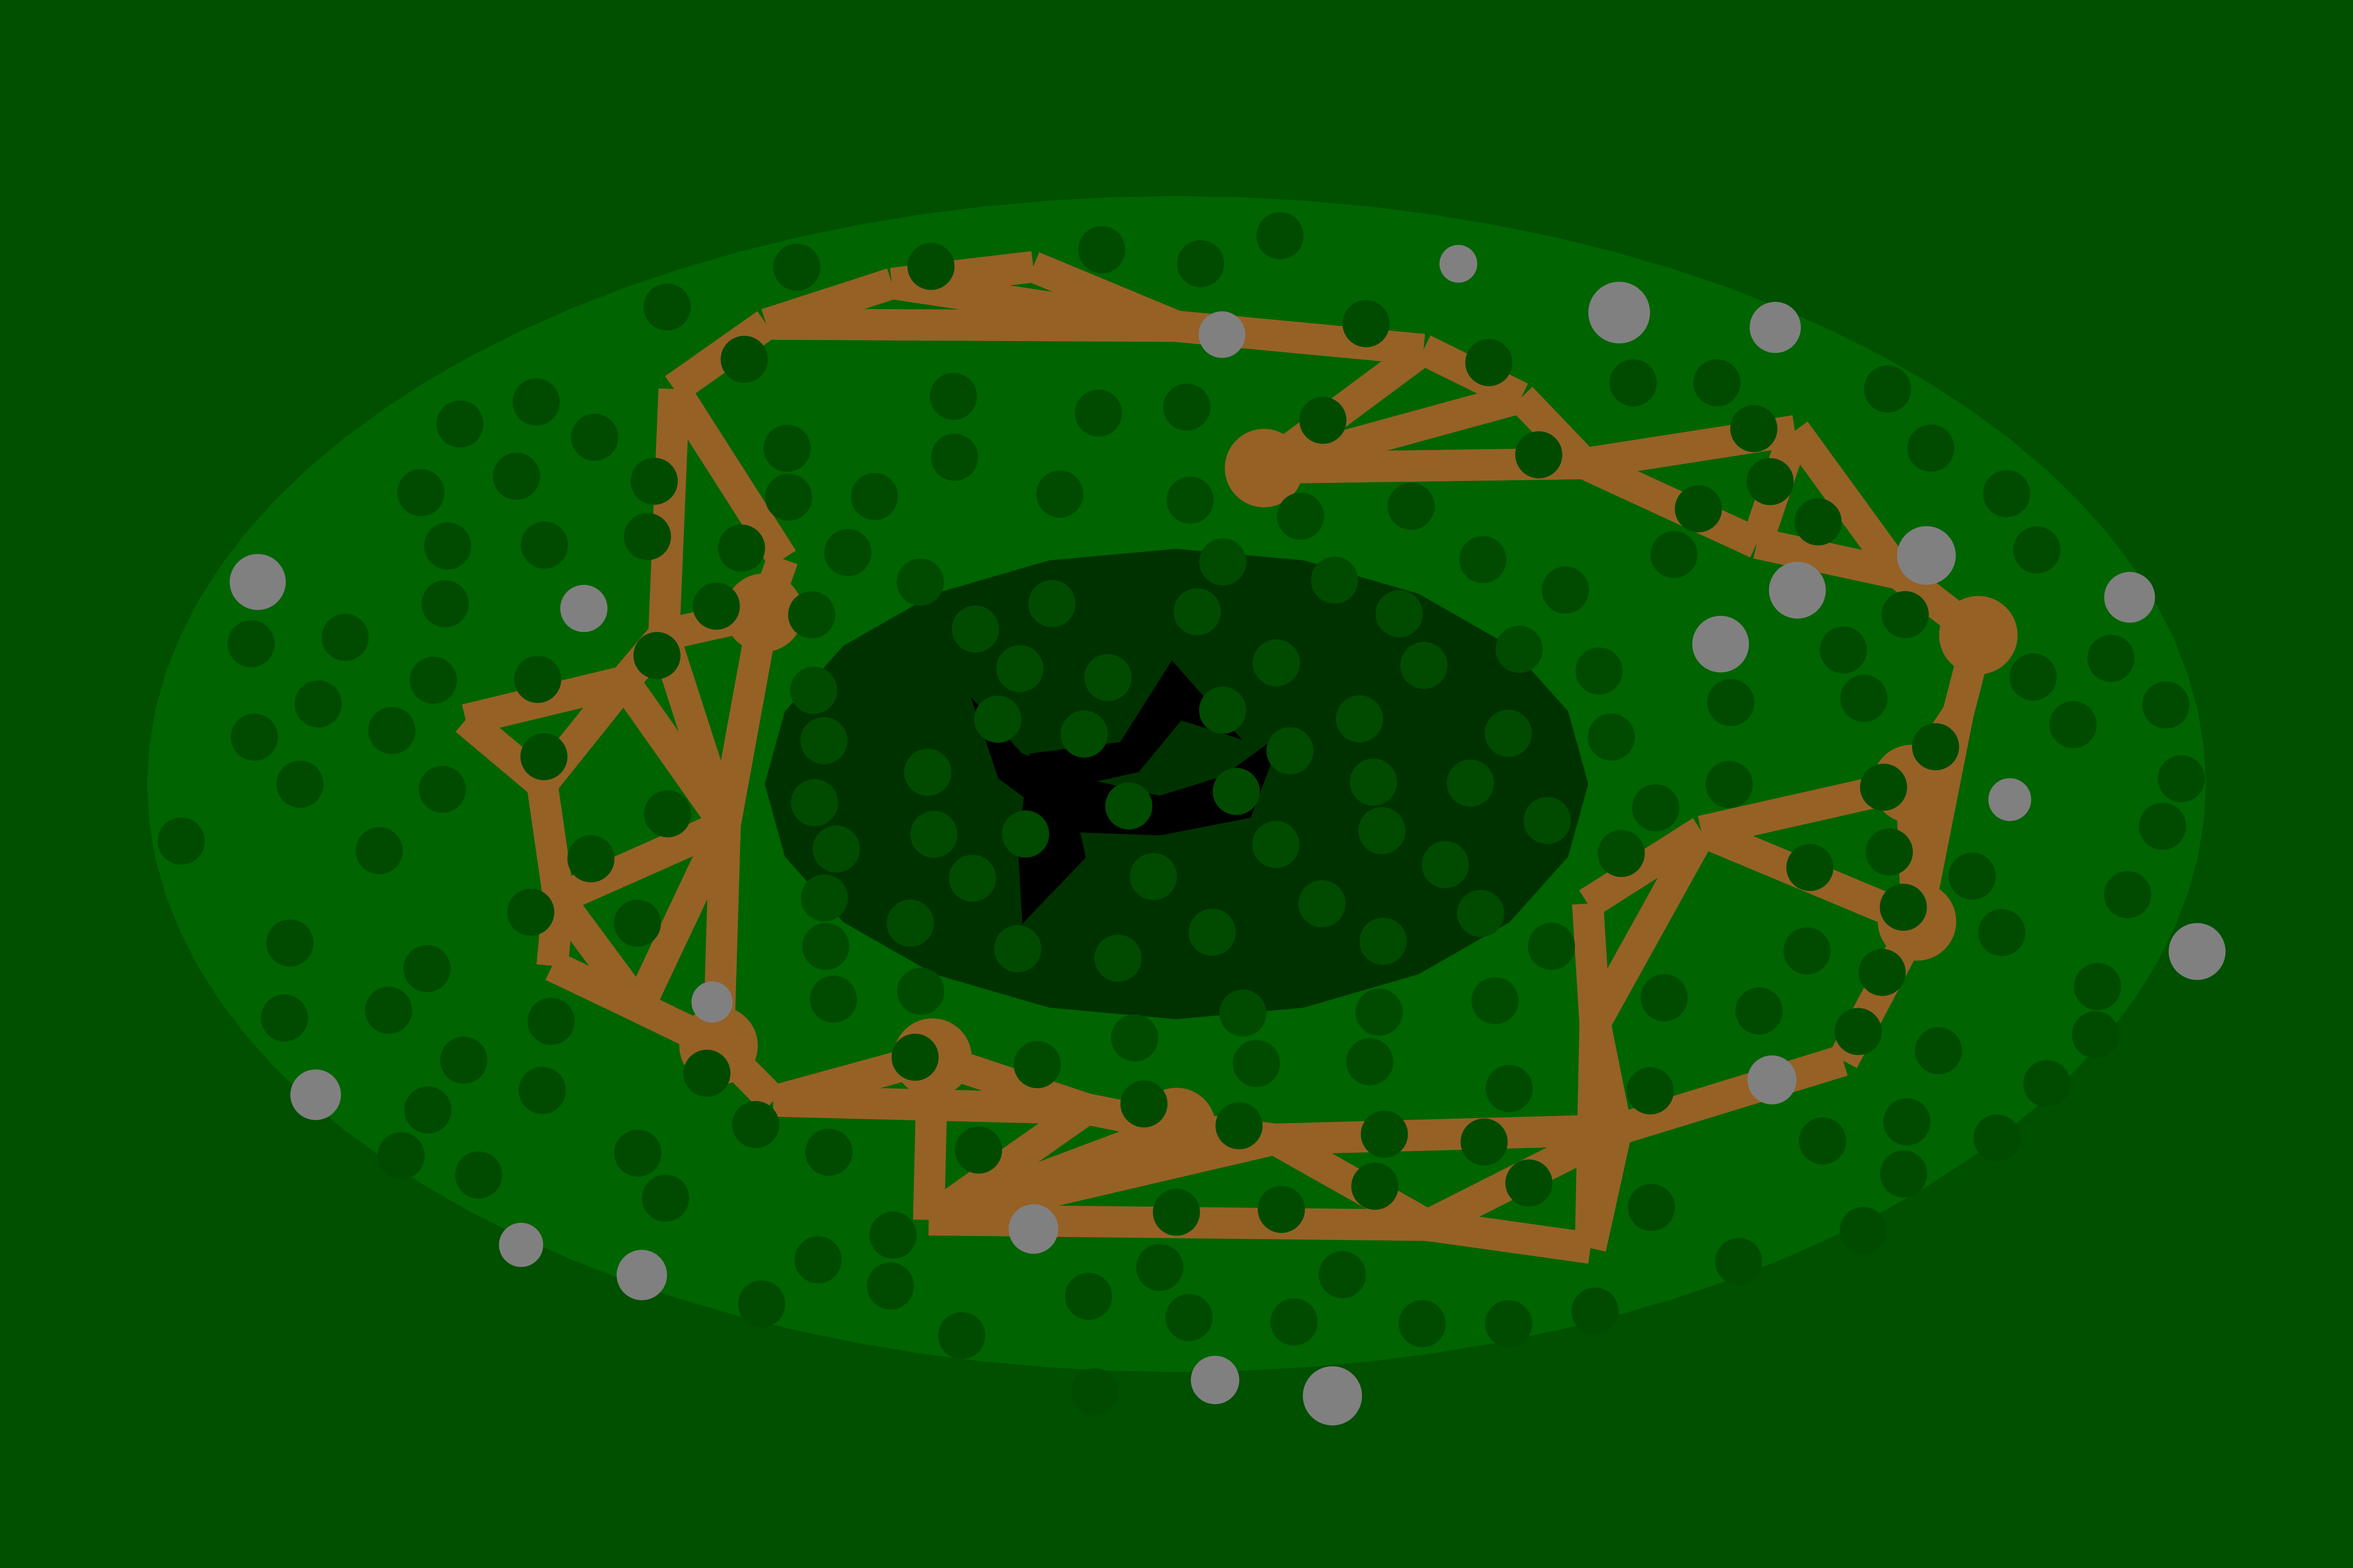
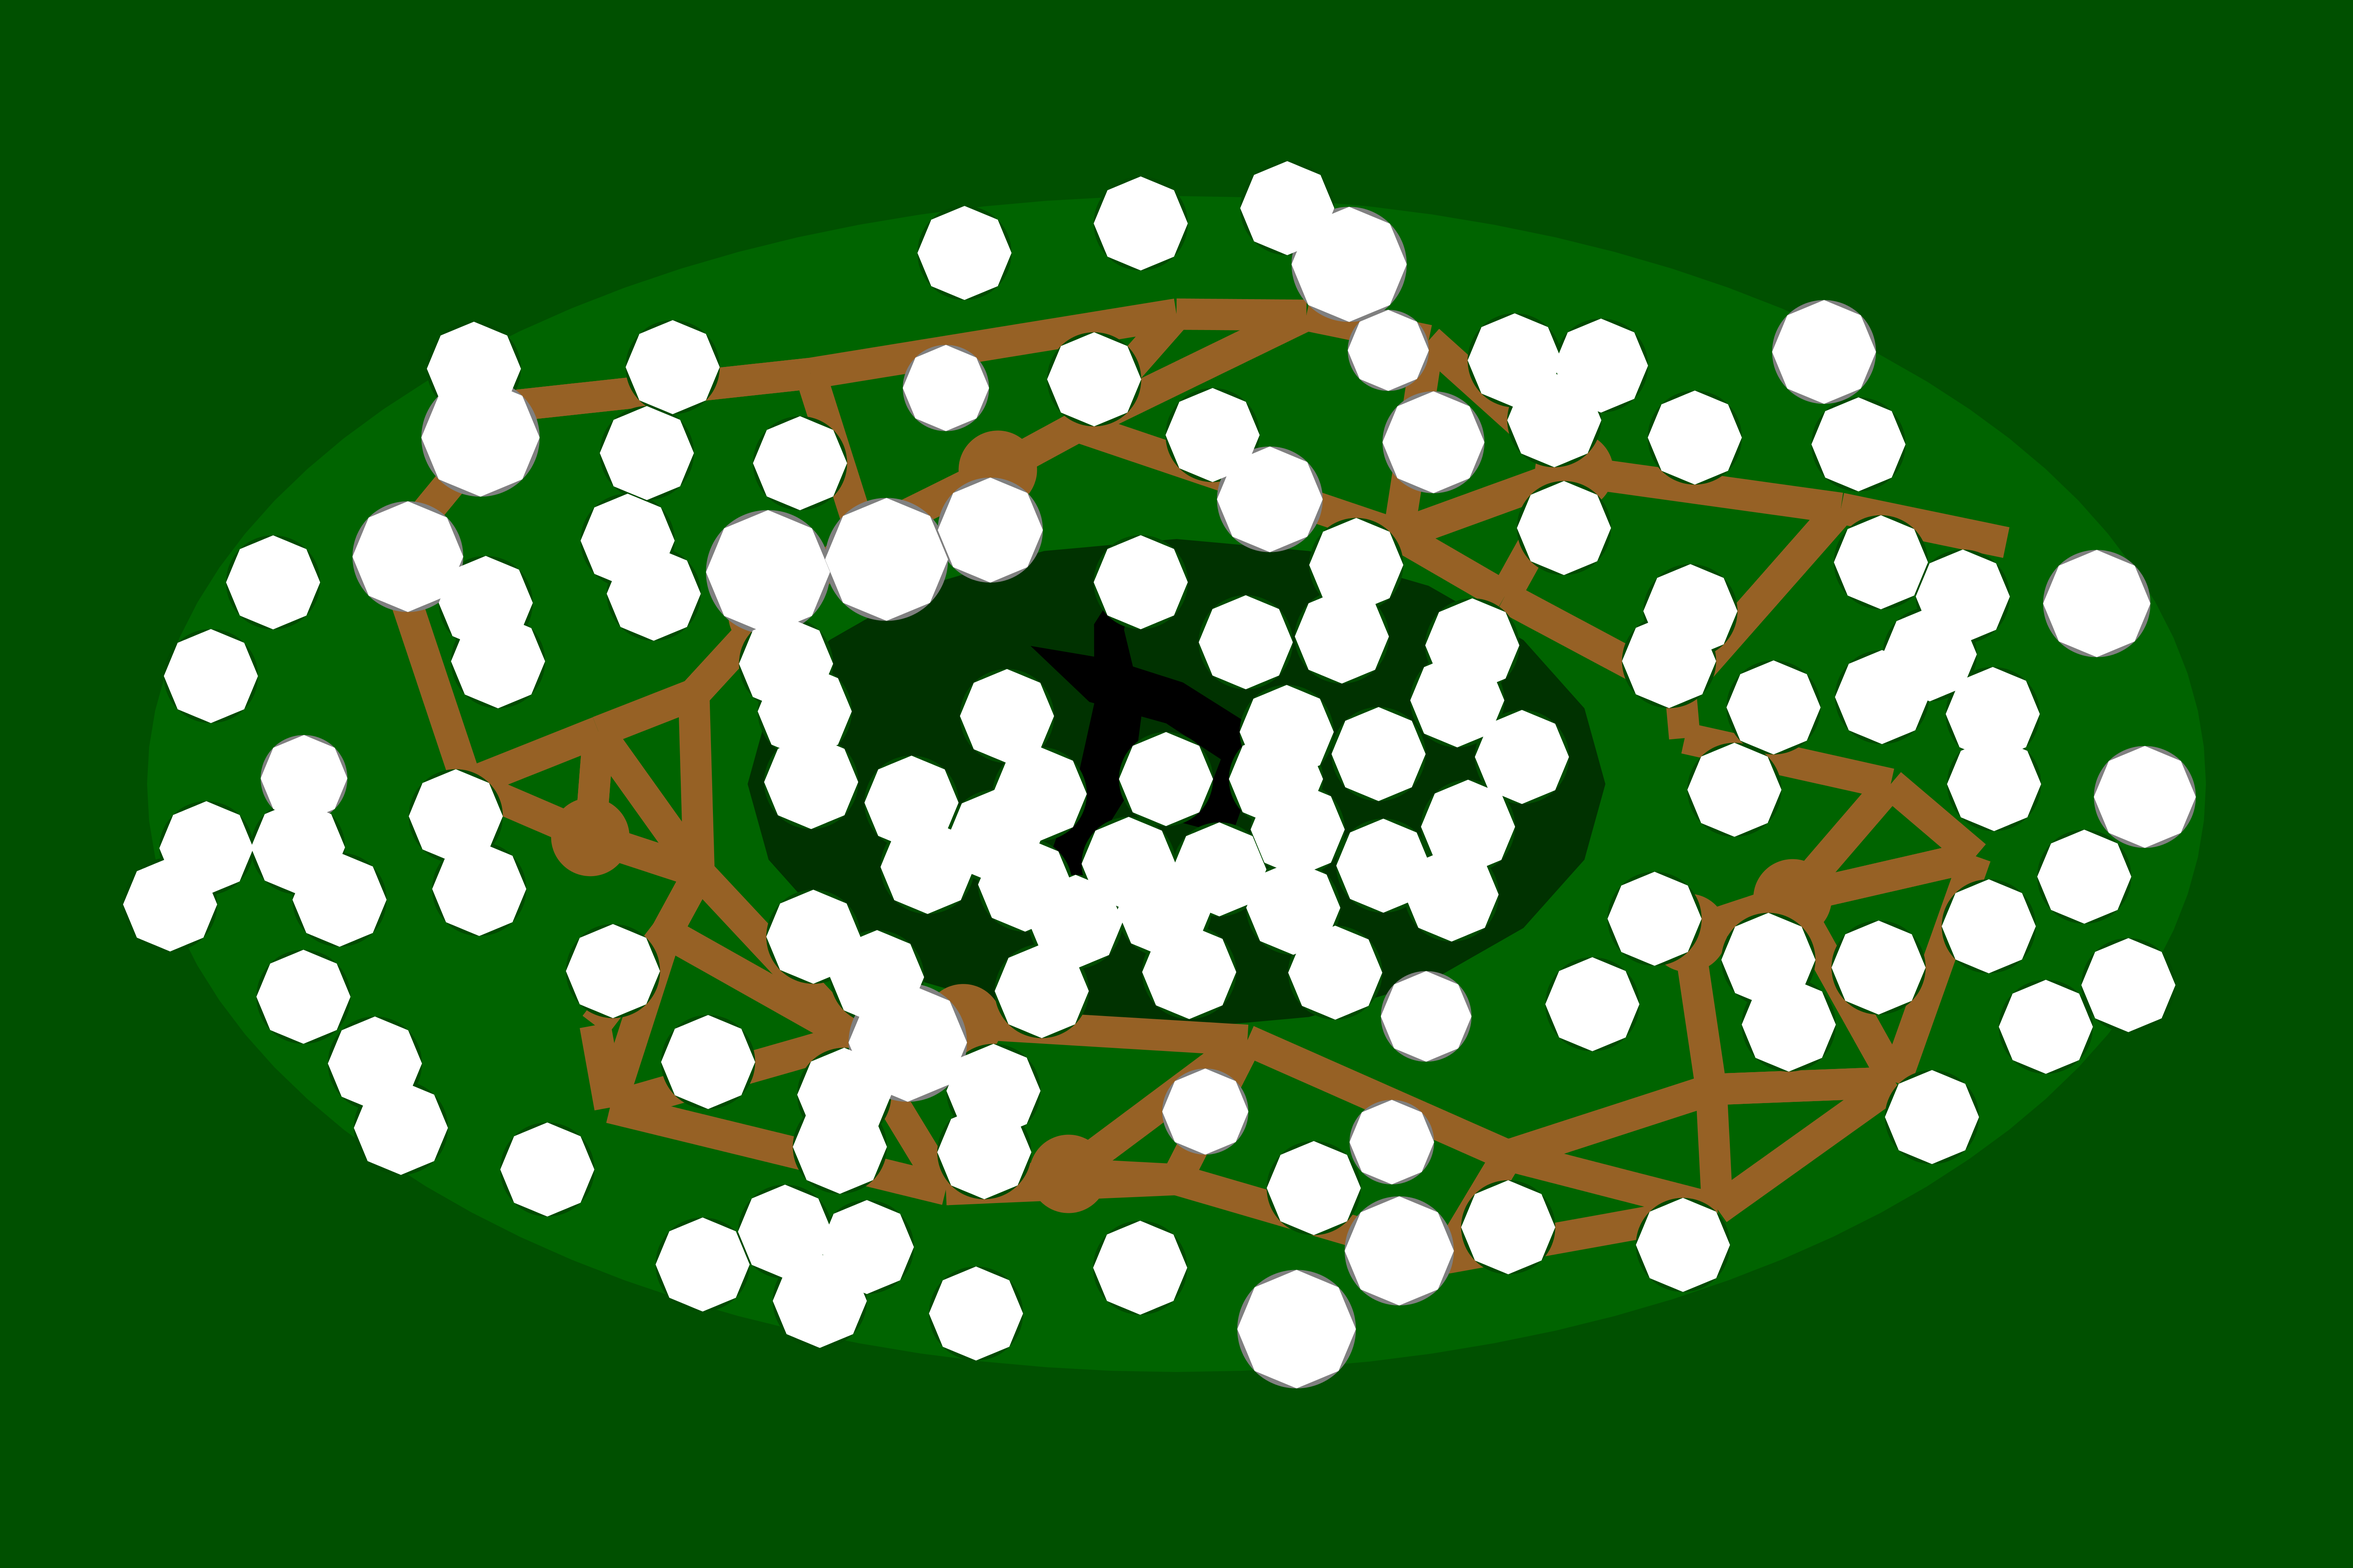
Fixed polygon generation

diff --git a/src/server/MapGen.java b/src/server/MapGen.java
@@ -16,24 +16,36 @@ import java.awt.Polygon;
  */
 
 public class MapGen {
-
-	//private final static int ROAD_WIDTH = 100;
+	// Constants that are used for map gen operations
+	private final static int ROAD_WIDTH = 100;
 	public final static int MAP_REGION_IDX = 0;
 	public final static int SWAMP_REGION_IDX = 1;
-	
+
+
+	//Variables for setting up the map generation parameters
 	public int mapSize;
 	public int loopRadius;
 	public int swampRadius;
 	public double ellipticalAdjust;
-	
+
+	//Data created during a generation cycle
     public ArrayList<RoadNode> nodes; 
     public ArrayList<Obstacle> obstacles;
     public RegionLayer regionLayer;
-    public boolean testingState;
-    
-    
 
-    MapGen(int mSize, int lRad, double eAdjust) {
+    //Boolean for configuring test states
+    public boolean testingState;
+
+
+	/**
+	 *
+	 * The constructor for the MapGen class
+	 *
+	 * @param mSize the size of the map for generation
+	 * @param lRad the radius of the loop for road node generation
+	 * @param eAdjust the eccentricity of the horizonatl adjust, tuning the map from a circle to an ellipse
+	 */
+	MapGen(int mSize, int lRad, double eAdjust) {
       this.nodes = new ArrayList<RoadNode>(0);
       this.obstacles = new ArrayList<Obstacle>(0);
       this.testingState = false;
@@ -41,7 +53,6 @@ public class MapGen {
     }
 
 	/**
-	 *
 	 * Runs essential functions to generate an entire map without acessing other classes
 	 *
 	 * @return MapData, an object that contains the essential data contained within the map
@@ -55,34 +66,41 @@ public class MapGen {
     	
     	return returnMap;
     }
-    
-    public void selfInitialize() {
+
+	/**
+	 * Runs the sequence of all methods performing the mathematics for creating one entire map
+	 */
+	public void selfInitialize() {
     	this.nodes = new ArrayList<RoadNode>(0);
         this.obstacles = new ArrayList<Obstacle>(0);
         this.testingState = false;
         
         //this.ellipticalAdjust = eAdjust;
-    	
+
+		// initializes basic values for generation
     	int loopRadiusSize = 10;
     	int nodeGenRange = 3750;
     	double nodeGenStDev = 0.5;
     	
-    	
+
+    	// runs the method sequence
     	this.generateMap2(40,loopRadiusSize,nodeGenRange,nodeGenStDev);
 	    this.tetherAllNodes2();	
 	    this.makeNodesElliptical();
 	    this.generateRegions();
 	    this.generateCrevices(2);
-	    //this.insertArtifactClearing();
+	    this.insertArtifactClearing();
 	    this.smokeTrees(7500, 1000, 0, false);    
 	    this.smokeRocks(7500, 100, true);
 	    this.makeObstaclesElliptical();
 	    this.genClearingByNum(8, 500);  	    
 	    this.purgeRedundanices();
     }
-        
-    
-    public void configueScenario1() {
+
+	/**
+	 * Configures a scenario for testing basic functionality
+	 */
+	public void configueScenario1() {
     	this.testingState = true;
     	
     	RoadNode node1 = new RoadNode(5000,5000);
@@ -94,15 +112,18 @@ public class MapGen {
     	this.nodes.add(node1);
     	this.nodes.add(node2);
     }
-    
-    public void generateRegions() {
+
+	/**
+	 * Generates the regions in the map based upon earlier generated nodes and connections
+	 */
+	public void generateRegions() {
     	this.regionLayer = new RegionLayer();
     	
     	Region swamp = new Region("swamp",1);
     	Region map = new Region("map", 0); 
     			
     	map.mimicEllipse(0, 0, 7500, 1.75, 100);
-    	swamp.mimicEllipse(0, 0, 3000, 1.75, 20);
+    	swamp.mimicEllipse(0, 0, 3125, 1.75, 20);
     	
     	
     	this.regionLayer.regions.add(MAP_REGION_IDX, map);
@@ -122,8 +143,13 @@ public class MapGen {
     		}
     	}    
     }
-    
-    public void makeElliptical(double eAdjust) {
+
+	/**
+	 * 	Makes all objects generated elliptical
+	 *
+	 * @param eAdjust, the value by which the adjustment is made
+	 */
+	public void makeElliptical(double eAdjust) {
     	for (int i = 0; i < nodes.size(); i++) {
     		nodes.get(i).location.x = (int) (nodes.get(i).location.x*eAdjust);
     	}
@@ -131,21 +157,33 @@ public class MapGen {
     		obstacles.get(i).location.x = (int) (obstacles.get(i).location.x*eAdjust);
     	}
     }
-    
-    public void makeNodesElliptical() {
+
+	/**
+	 * Makes all node positions elliptical, based upon an earlier-initialized value
+	 */
+	public void makeNodesElliptical() {
     	for (int i = 0; i < nodes.size(); i++) {
     		nodes.get(i).location.x = (int) (nodes.get(i).location.x*ellipticalAdjust);
     	}
     }
-    
-    public void makeObstaclesElliptical() {
+
+	/**
+	 * Makes all obstacle position elliptical, based upon an earlier-initialized value
+	 */
+	public void makeObstaclesElliptical() {
     	for (int i = 0; i < obstacles.size(); i++) {
     		obstacles.get(i).location.x = (int) (obstacles.get(i).location.x*ellipticalAdjust);
     	}
     }
-    
-    
-    public void genClearing(double clearingChance, int clearingSize) {
+
+	/**
+	 * Generates clearings on road nodes, implemented within the nodes themselves
+	 *
+	 * @param clearingChance, the chance that any individual node becomes a clearing/
+	 * @param clearingSize, the size that the clearing is.
+	 */
+
+	public void genClearing(double clearingChance, int clearingSize) {
     	for (int i = 0; i < nodes.size(); i++) {
     		if (roll(clearingChance)) {
     			nodes.get(i).isClearing = true;
@@ -153,8 +191,15 @@ public class MapGen {
     		}
     	}
     }
-    
-    public void genClearingByNum(int numClearings, int clearingSize) {
+
+	/**
+	 * Generate clearings on road nodes, implemented within the nodes themselves
+	 *
+	 * @param numClearings
+	 * @param clearingSize
+	 */
+
+	public void genClearingByNum(int numClearings, int clearingSize) {
     	for (int i = 0; i < numClearings; i++) {
     		int randomIdx = (int) (Math.random()*nodes.size()) ;
     		if (nodes.get(randomIdx).isClearing) {
@@ -315,9 +360,11 @@ public class MapGen {
 			double tempAngle;
 
 			for (int idx2 = 0; idx2 < numVertices; idx2++) {
-				tempAngle = 2*Math.PI*idx/numVertices;
+				tempAngle = 2*Math.PI*idx2/numVertices;
 				creation.xpoints[idx2] = (int) (radius*Math.cos(tempAngle)) + obstacles.get(idx).location.x;
+				System.out.println(creation.xpoints[idx2]);
 				creation.ypoints[idx2] = (int) (radius*Math.sin(tempAngle)) +  obstacles.get(idx).location.y;
+				System.out.println(creation.ypoints[idx2]);
 			}
 
 			obstacles.get(idx).boundingBox = creation;

diff --git a/src/server/MainMapGenModule.java b/src/server/MainMapGenModule.java
@@ -44,7 +44,7 @@ class MainMapGenModule extends JFrame{
          gen.makeNodesElliptical();
          gen.generateRegions();
          gen.generateCrevices(2);
-         gen.smokeTrees(7500, 200, 0, false);
+         gen.smokeTrees(7500, 100, 0, false);
          System.out.println("generation");
          gen.smokeRocks(7500, 20, true);
          gen.makeObstaclesElliptical();
@@ -143,17 +143,25 @@ class MainMapGenModule extends JFrame{
                g.setColor(Color.GRAY);
             }
             if (gen.obstacles.get(i).radius != 0) {
-               g.fillOval(gen.obstacles.get(i).location.x, gen.obstacles.get(i).location.y,
-                       gen.obstacles.get(i).radius, gen.obstacles.get(i).radius);
+               this.fillOvalCustom(gen.obstacles.get(i).radius,gen.obstacles.get(i).location.x,
+                       gen.obstacles.get(i).location.y,g);
             } else {
-               g.fillOval(gen.obstacles.get(i).location.x, gen.obstacles.get(i).location.y, 50, 50);
+               this.fillOvalCustom(50,gen.obstacles.get(i).location.x,
+                       gen.obstacles.get(i).location.y, g);
             }
          }
-        /* try {
+
+         g2.setColor(Color.white);
+         for (int i = 0; i < gen.obstacles.size(); i++) {
+            g2.fill(gen.obstacles.get(i).boundingBox);
+         }
+
+
+         try {
             ImageIO.write(mapImage, "PNG", new File("Map.png"));//also try png
          } catch (Exception e) {
             System.out.println("this is bad");
-         }*/
+         }
       }
    }
 
